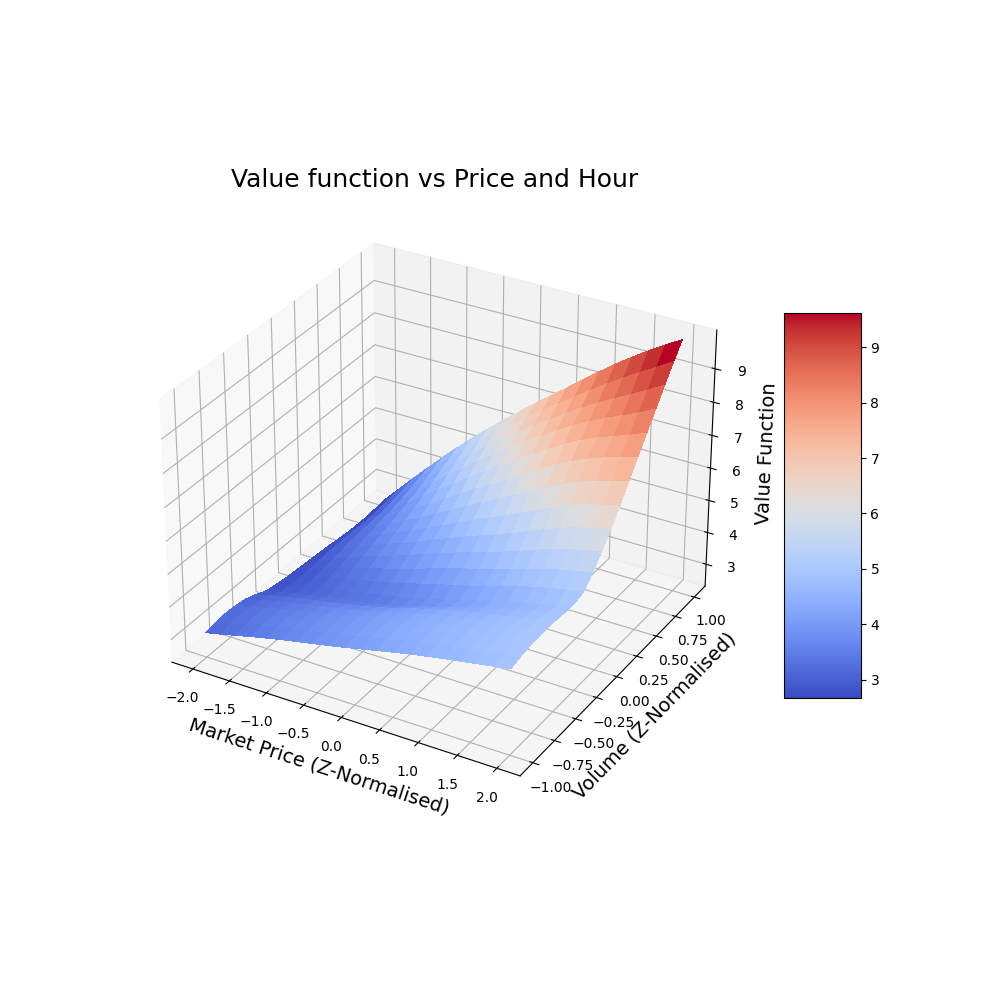
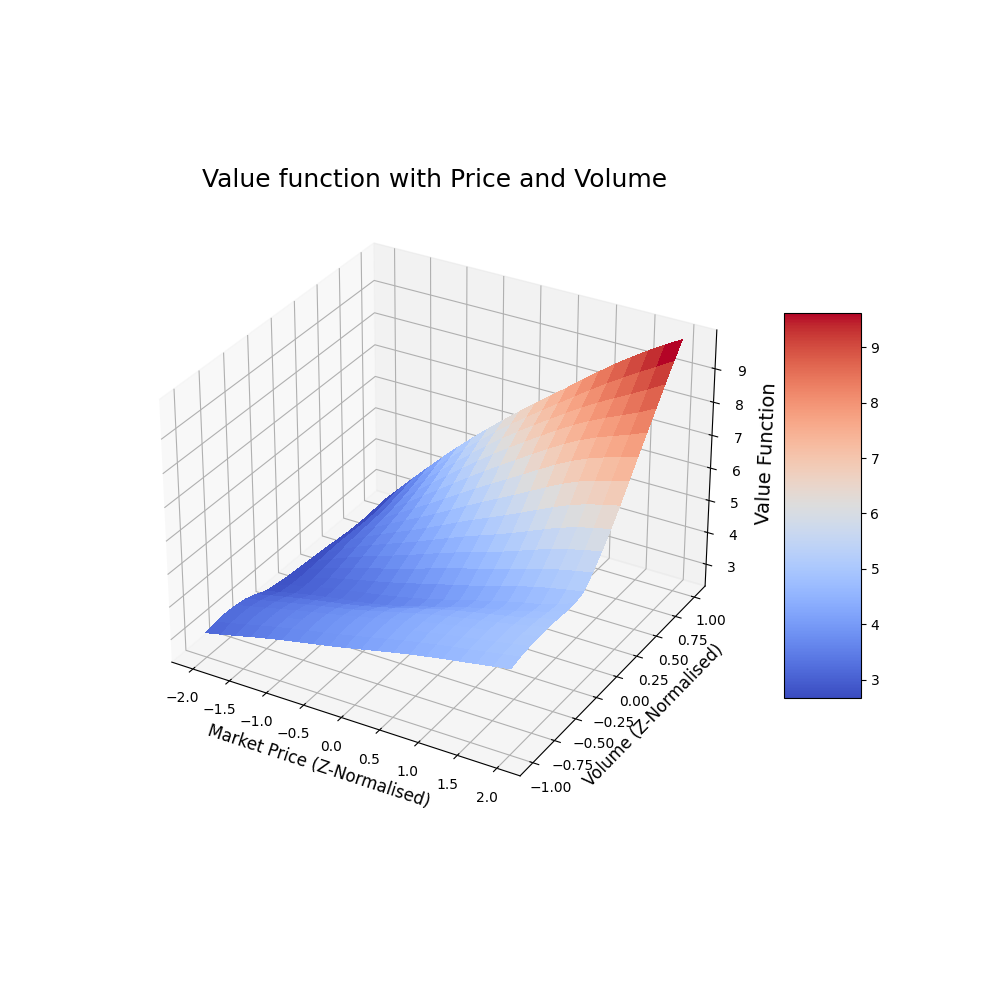
fixed title - v value plots

diff --git a/ddqn_plot_v_values.py b/ddqn_plot_v_values.py
@@ -32,7 +32,7 @@ if __name__ == "__main__":
     #setting month and vol as consts
     
     month = 6
-    hour = 19
+    hour = 1
 
     #making bins for smoothing
     
@@ -56,11 +56,11 @@ if __name__ == "__main__":
     surf = ax.plot_surface(X, Y, Z, cmap=cm.coolwarm,
                         linewidth=0, antialiased=False)
 
-    ax.set_xlabel('Market Price (Z-Normalised)', fontsize = 14)
-    ax.set_ylabel('Volume (Z-Normalised)', fontsize = 14)
+    ax.set_xlabel('Market Price (Z-Normalised)', fontsize = 12)
+    ax.set_ylabel('Volume (Z-Normalised)', fontsize = 12)
     ax.set_zlabel('Value Function', fontsize = 14)
     fig.colorbar(surf, shrink=0.5, aspect=5)
-    ax.set_title('Value function vs Price and Hour', fontsize = 18)
+    ax.set_title('Value function with Price and Volume', fontsize = 18)
     
     #saving to disk
     
